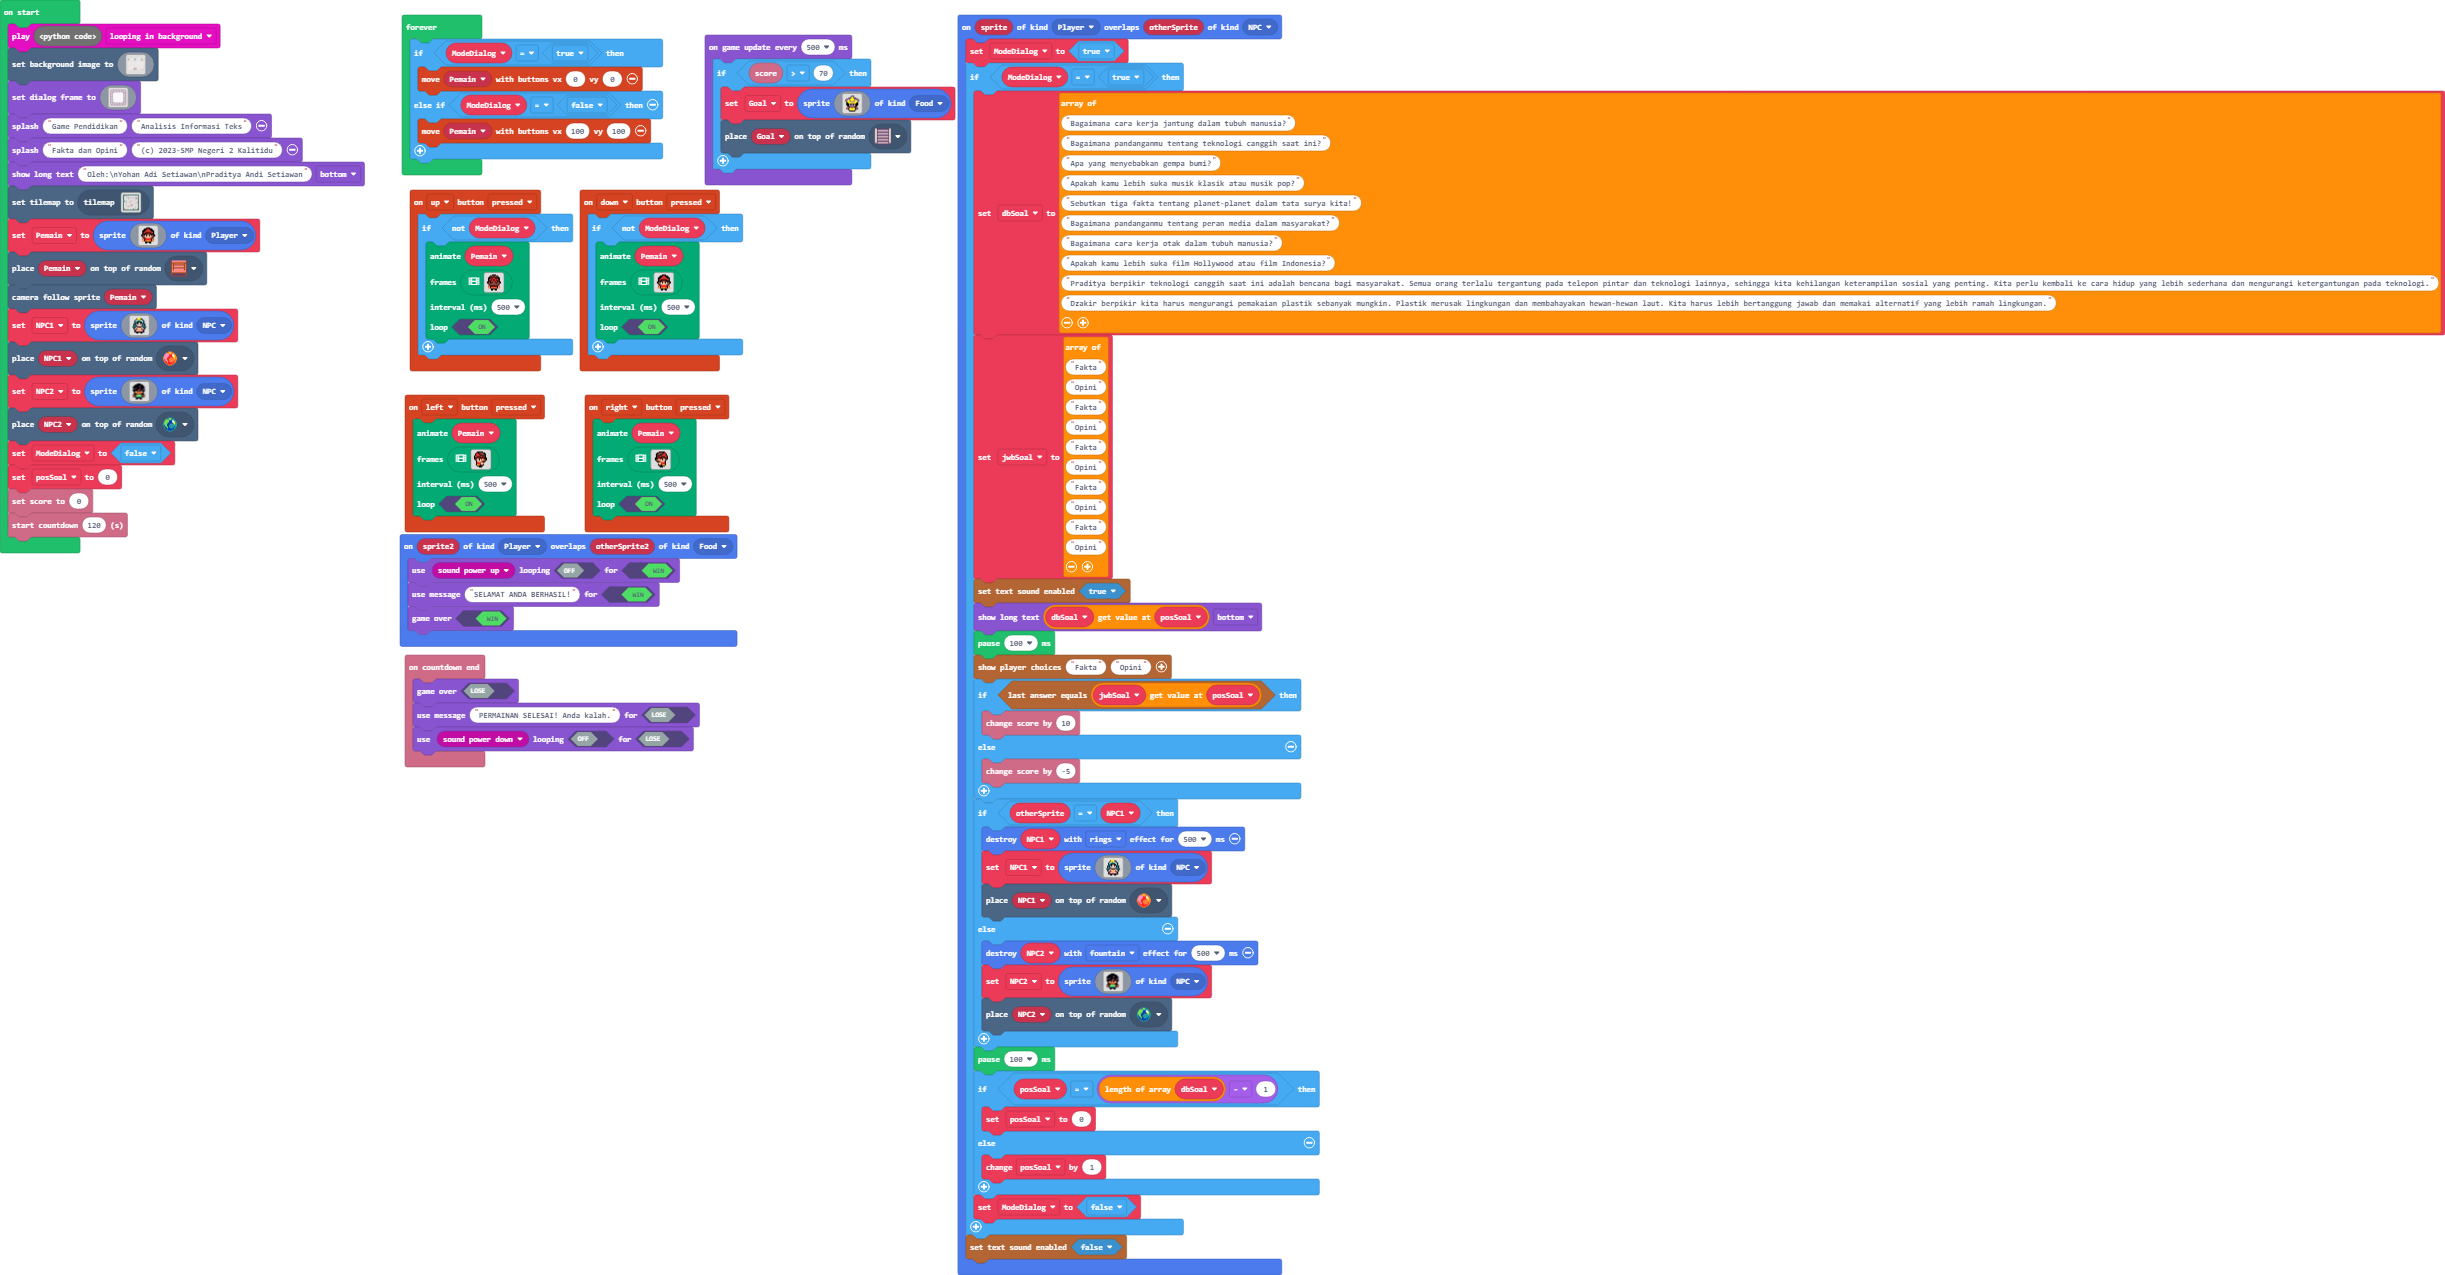
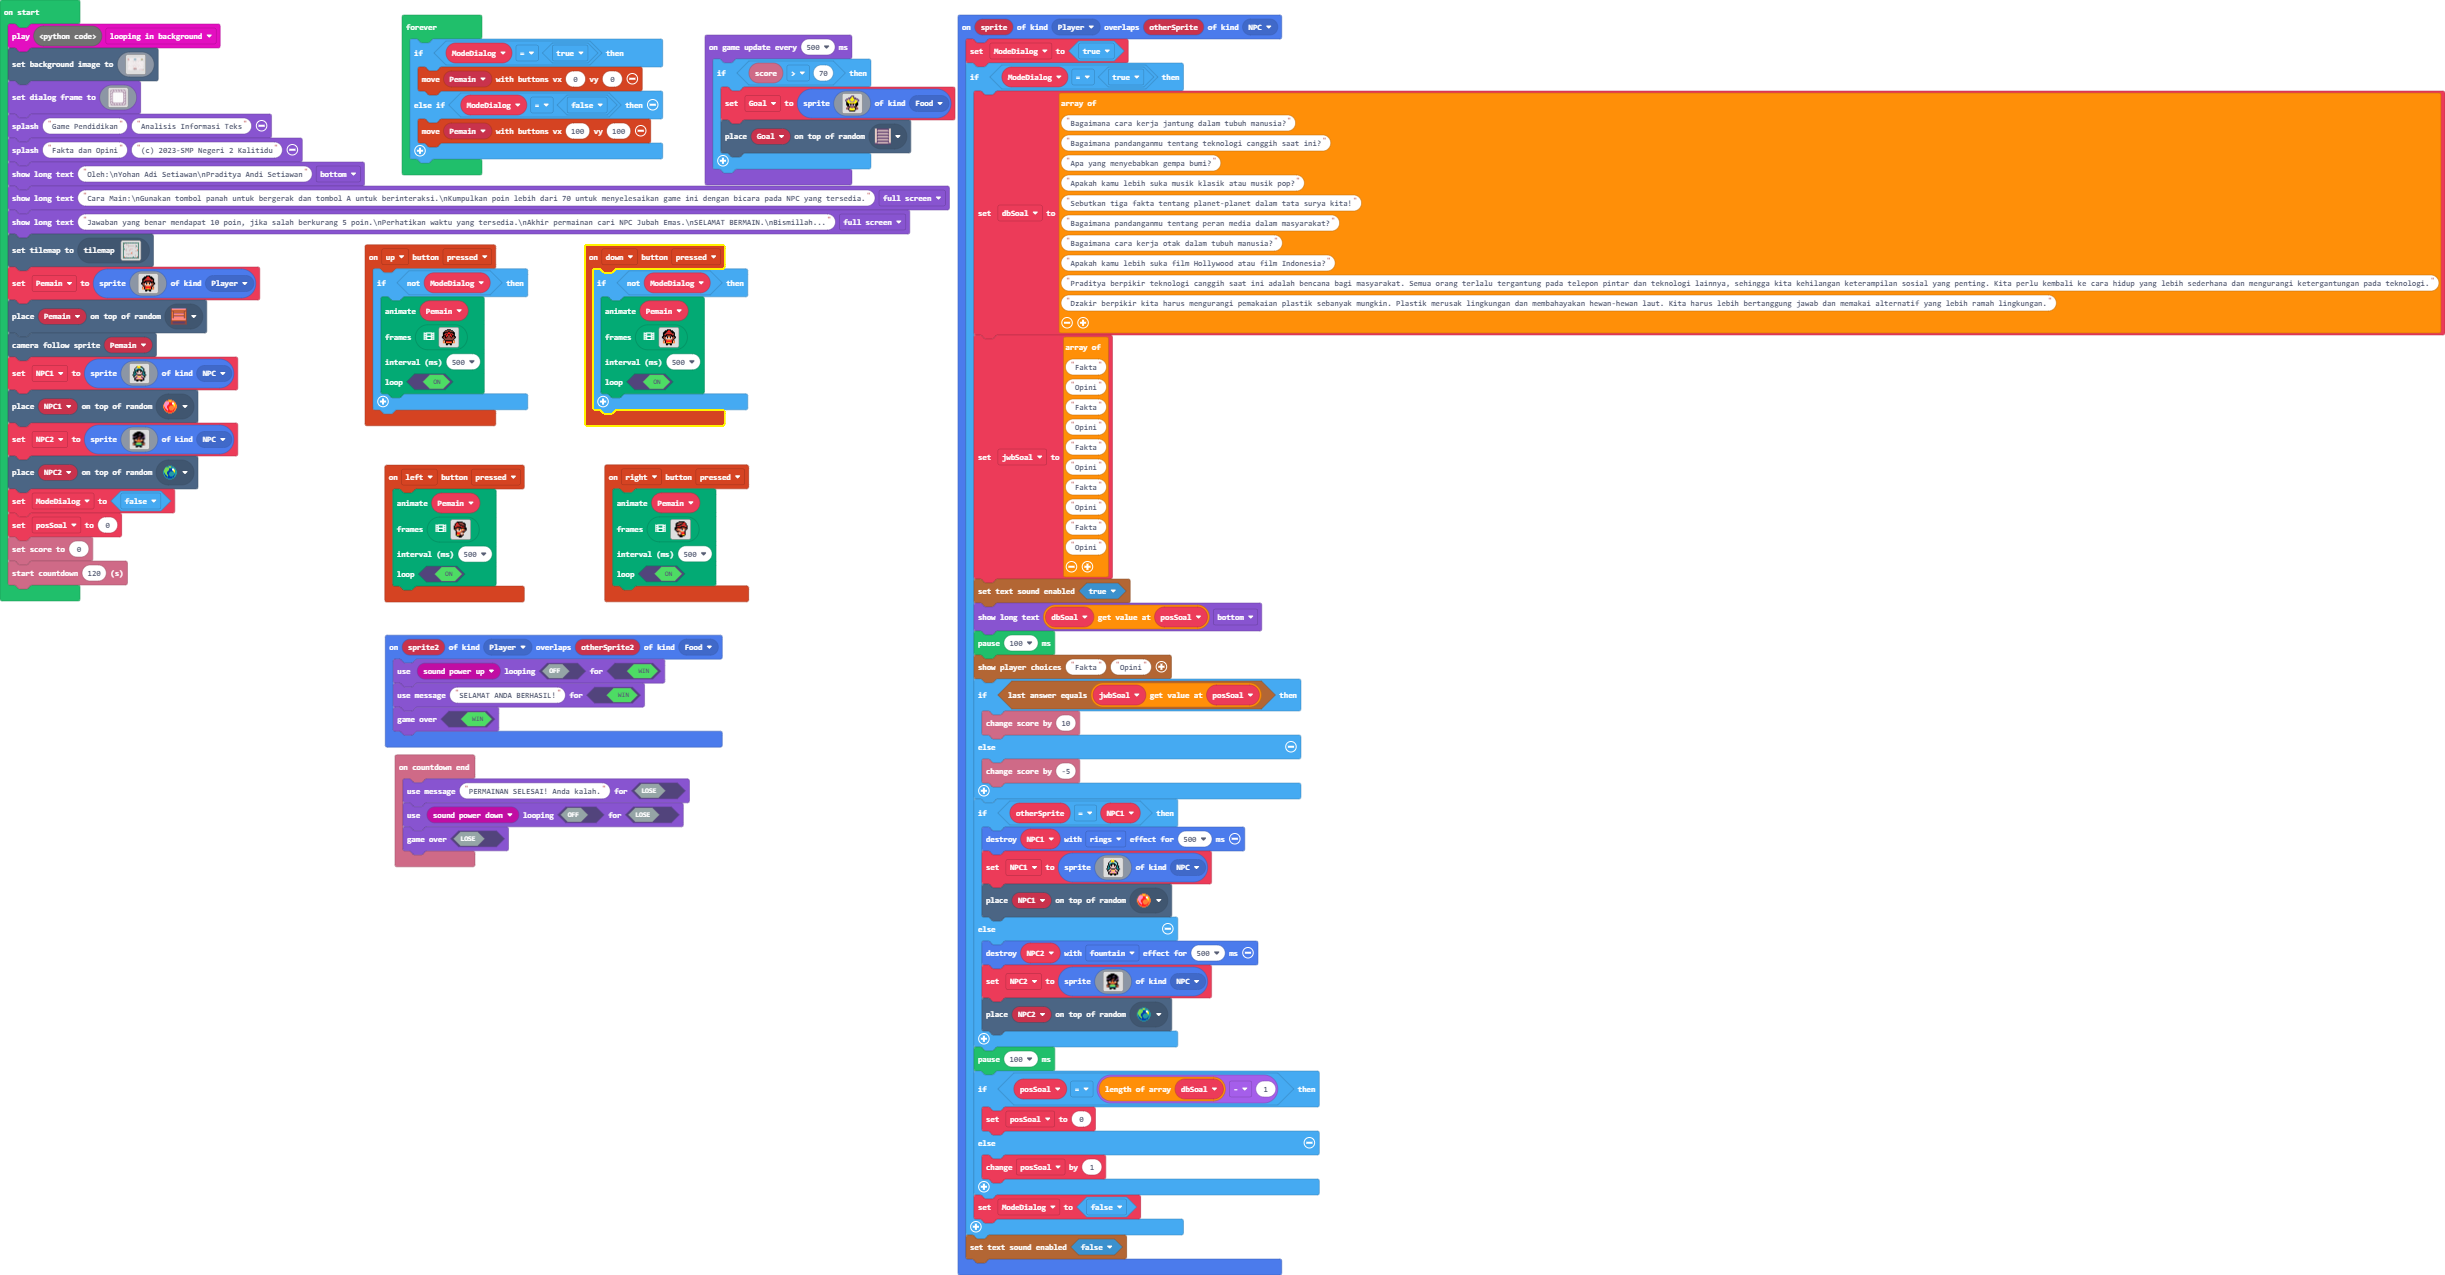
Add Information game role

Changed region(s): [[0.0, 0.1224, 0.4041, 0.7035]]

diff --git a/main.ts b/main.ts
@@ -1,21 +1,43 @@
 namespace SpriteKind {
     export const NPC = SpriteKind.create()
 }
-
-controller.up.onEvent(ControllerButtonEvent.Pressed, function on_up_pressed() {
-    if (!ModeDialog) {
-        animation.runImageAnimation(Pemain, assets.animation`
-            PemainUp
-        `, 500, true)
+controller.up.onEvent(ControllerButtonEvent.Pressed, function () {
+    if (!(ModeDialog)) {
+        animation.runImageAnimation(
+        Pemain,
+        assets.animation`PemainUp`,
+        500,
+        true
+        )
     }
-    
 })
-sprites.onOverlap(SpriteKind.Player, SpriteKind.NPC, function on_on_overlap(sprite: Sprite, otherSprite: Sprite) {
-    
+sprites.onOverlap(SpriteKind.Player, SpriteKind.NPC, function (sprite, otherSprite) {
     ModeDialog = true
     if (ModeDialog == true) {
-        dbSoal = ["Bagaimana cara kerja jantung dalam tubuh manusia?", "Bagaimana pandanganmu tentang teknologi canggih saat ini?", "Apa yang menyebabkan gempa bumi?", "Apakah kamu lebih suka musik klasik atau musik pop?", "Sebutkan tiga fakta tentang planet-planet dalam tata surya kita!", "Bagaimana pandanganmu tentang peran media dalam masyarakat?", "Bagaimana cara kerja otak dalam tubuh manusia?", "Apakah kamu lebih suka film Hollywood atau film Indonesia?", "Praditya berpikir teknologi canggih saat ini adalah bencana bagi masyarakat. Semua orang terlalu tergantung pada telepon pintar dan teknologi lainnya, sehingga kita kehilangan keterampilan sosial yang penting. Kita perlu kembali ke cara hidup yang lebih sederhana dan mengurangi ketergantungan pada teknologi.", "Dzakir berpikir kita harus mengurangi pemakaian plastik sebanyak mungkin. Plastik merusak lingkungan dan membahayakan hewan-hewan laut. Kita harus lebih bertanggung jawab dan memakai alternatif yang lebih ramah lingkungan."]
-        jwbSoal = ["Fakta", "Opini", "Fakta", "Opini", "Fakta", "Opini", "Fakta", "Opini", "Fakta", "Opini"]
+        dbSoal = [
+        "Bagaimana cara kerja jantung dalam tubuh manusia?",
+        "Bagaimana pandanganmu tentang teknologi canggih saat ini?",
+        "Apa yang menyebabkan gempa bumi?",
+        "Apakah kamu lebih suka musik klasik atau musik pop?",
+        "Sebutkan tiga fakta tentang planet-planet dalam tata surya kita!",
+        "Bagaimana pandanganmu tentang peran media dalam masyarakat?",
+        "Bagaimana cara kerja otak dalam tubuh manusia?",
+        "Apakah kamu lebih suka film Hollywood atau film Indonesia?",
+        "Praditya berpikir teknologi canggih saat ini adalah bencana bagi masyarakat. Semua orang terlalu tergantung pada telepon pintar dan teknologi lainnya, sehingga kita kehilangan keterampilan sosial yang penting. Kita perlu kembali ke cara hidup yang lebih sederhana dan mengurangi ketergantungan pada teknologi.",
+        "Dzakir berpikir kita harus mengurangi pemakaian plastik sebanyak mungkin. Plastik merusak lingkungan dan membahayakan hewan-hewan laut. Kita harus lebih bertanggung jawab dan memakai alternatif yang lebih ramah lingkungan."
+        ]
+        jwbSoal = [
+        "Fakta",
+        "Opini",
+        "Fakta",
+        "Opini",
+        "Fakta",
+        "Opini",
+        "Fakta",
+        "Opini",
+        "Fakta",
+        "Opini"
+        ]
         story.setSoundEnabled(true)
         game.showLongText(dbSoal[posSoal], DialogLayout.Bottom)
         pause(100)
@@ -25,116 +47,101 @@ sprites.onOverlap(SpriteKind.Player, SpriteKind.NPC, function on_on_overlap(spri
         } else {
             info.changeScoreBy(-5)
         }
-        
         if (otherSprite == NPC1) {
             NPC1.destroy(effects.rings, 500)
-            NPC1 = sprites.create(assets.image`
-                Novita
-            `, SpriteKind.NPC)
+            NPC1 = sprites.create(assets.image`Novita`, SpriteKind.NPC)
             tiles.placeOnRandomTile(NPC1, sprites.dungeon.collectibleRedCrystal)
         } else {
             NPC2.destroy(effects.fountain, 500)
-            NPC2 = sprites.create(assets.image`
-                Dzakir
-            `, SpriteKind.NPC)
+            NPC2 = sprites.create(assets.image`Dzakir`, SpriteKind.NPC)
             tiles.placeOnRandomTile(NPC2, sprites.dungeon.collectibleBlueCrystal)
         }
-        
         pause(100)
         if (posSoal == dbSoal.length - 1) {
             posSoal = 0
         } else {
             posSoal += 1
         }
-        
         ModeDialog = false
     }
-    
     story.setSoundEnabled(false)
 })
-controller.left.onEvent(ControllerButtonEvent.Pressed, function on_left_pressed() {
-    animation.runImageAnimation(Pemain, assets.animation`
-        PemainLeft
-    `, 500, true)
+controller.left.onEvent(ControllerButtonEvent.Pressed, function () {
+    animation.runImageAnimation(
+    Pemain,
+    assets.animation`PemainLeft`,
+    500,
+    true
+    )
 })
-info.onCountdownEnd(function on_countdown_end() {
-    game.gameOver(false)
+info.onCountdownEnd(function () {
     game.setGameOverMessage(false, "PERMAINAN SELESAI! Anda kalah.")
     game.setGameOverPlayable(false, music.melodyPlayable(music.powerDown), false)
+    game.gameOver(false)
 })
-controller.right.onEvent(ControllerButtonEvent.Pressed, function on_right_pressed() {
-    animation.runImageAnimation(Pemain, assets.animation`
-        PemainRight
-    `, 500, true)
+controller.right.onEvent(ControllerButtonEvent.Pressed, function () {
+    animation.runImageAnimation(
+    Pemain,
+    assets.animation`PemainRight`,
+    500,
+    true
+    )
 })
-controller.down.onEvent(ControllerButtonEvent.Pressed, function on_down_pressed() {
-    if (!ModeDialog) {
-        animation.runImageAnimation(Pemain, assets.animation`
-            PemainDown
-        `, 500, true)
+controller.down.onEvent(ControllerButtonEvent.Pressed, function () {
+    if (!(ModeDialog)) {
+        animation.runImageAnimation(
+        Pemain,
+        assets.animation`PemainDown`,
+        500,
+        true
+        )
     }
-    
 })
-sprites.onOverlap(SpriteKind.Player, SpriteKind.Food, function on_on_overlap2(sprite2: Sprite, otherSprite2: Sprite) {
+sprites.onOverlap(SpriteKind.Player, SpriteKind.Food, function (sprite2, otherSprite2) {
     game.setGameOverPlayable(true, music.melodyPlayable(music.powerUp), false)
     game.setGameOverMessage(true, "SELAMAT ANDA BERHASIL!")
     game.gameOver(true)
 })
-let Goal : Sprite = null
-let jwbSoal : string[] = []
-let dbSoal : string[] = []
+let Goal: Sprite = null
+let jwbSoal: string[] = []
+let dbSoal: string[] = []
 let posSoal = 0
 let ModeDialog = false
-let NPC2 : Sprite = null
-let NPC1 : Sprite = null
-let Pemain : Sprite = null
+let NPC2: Sprite = null
+let NPC1: Sprite = null
+let Pemain: Sprite = null
 music.play(music.createSong(hex`
[1 lines of base64/hex data omitted]
     `), music.PlaybackMode.LoopingInBackground)
-scene.setBackgroundImage(assets.image`
-    bgImage
-`)
-game.setDialogFrame(assets.image`
-    frameDialog
-`)
+scene.setBackgroundImage(assets.image`bgImage`)
+game.setDialogFrame(assets.image`frameDialog`)
 game.splash("Game Pendidikan", "Analisis Informasi Teks")
 game.splash("Fakta dan Opini", "(c) 2023-SMP Negeri 2 Kalitidu")
 game.showLongText("Oleh:\\nYohan Adi Setiawan\\nPraditya Andi Setiawan", DialogLayout.Bottom)
-tiles.setCurrentTilemap(tilemap`
-    level1
-`)
-Pemain = sprites.create(assets.image`
-    Pandi
-`, SpriteKind.Player)
+game.showLongText("Cara Main:\\nGunakan tombol panah untuk bergerak dan tombol A untuk berinteraksi.\\nKumpulkan poin lebih dari 70 untuk menyelesaikan game ini dengan bicara pada NPC yang tersedia.", DialogLayout.Full)
+game.showLongText("Jawaban yang benar mendapat 10 poin, jika salah berkurang 5 poin.\\nPerhatikan waktu yang tersedia.\\nAkhir permainan cari NPC Jubah Emas.\\nSELAMAT BERMAIN.\\nBismillah...", DialogLayout.Full)
+tiles.setCurrentTilemap(tilemap`level1`)
+Pemain = sprites.create(assets.image`Pandi`, SpriteKind.Player)
 tiles.placeOnRandomTile(Pemain, sprites.dungeon.stairLadder)
 scene.cameraFollowSprite(Pemain)
-NPC1 = sprites.create(assets.image`
-    Novita
-`, SpriteKind.NPC)
+NPC1 = sprites.create(assets.image`Novita`, SpriteKind.NPC)
 tiles.placeOnRandomTile(NPC1, sprites.dungeon.collectibleRedCrystal)
-NPC2 = sprites.create(assets.image`
-    Dzakir
-`, SpriteKind.NPC)
+NPC2 = sprites.create(assets.image`Dzakir`, SpriteKind.NPC)
 tiles.placeOnRandomTile(NPC2, sprites.dungeon.collectibleBlueCrystal)
 ModeDialog = false
 posSoal = 0
 info.setScore(0)
 info.startCountdown(120)
-forever(function on_forever() {
+forever(function () {
     if (ModeDialog == true) {
         controller.moveSprite(Pemain, 0, 0)
     } else if (ModeDialog == false) {
         controller.moveSprite(Pemain, 100, 100)
     }
-    
 })
-game.onUpdateInterval(500, function on_update_interval() {
-    
+game.onUpdateInterval(500, function () {
     if (info.score() > 70) {
-        Goal = sprites.create(assets.image`
-            FinalNPC
-        `, SpriteKind.Food)
+        Goal = sprites.create(assets.image`FinalNPC`, SpriteKind.Food)
         tiles.placeOnRandomTile(Goal, sprites.dungeon.stairNorth)
     }
-    
 })
